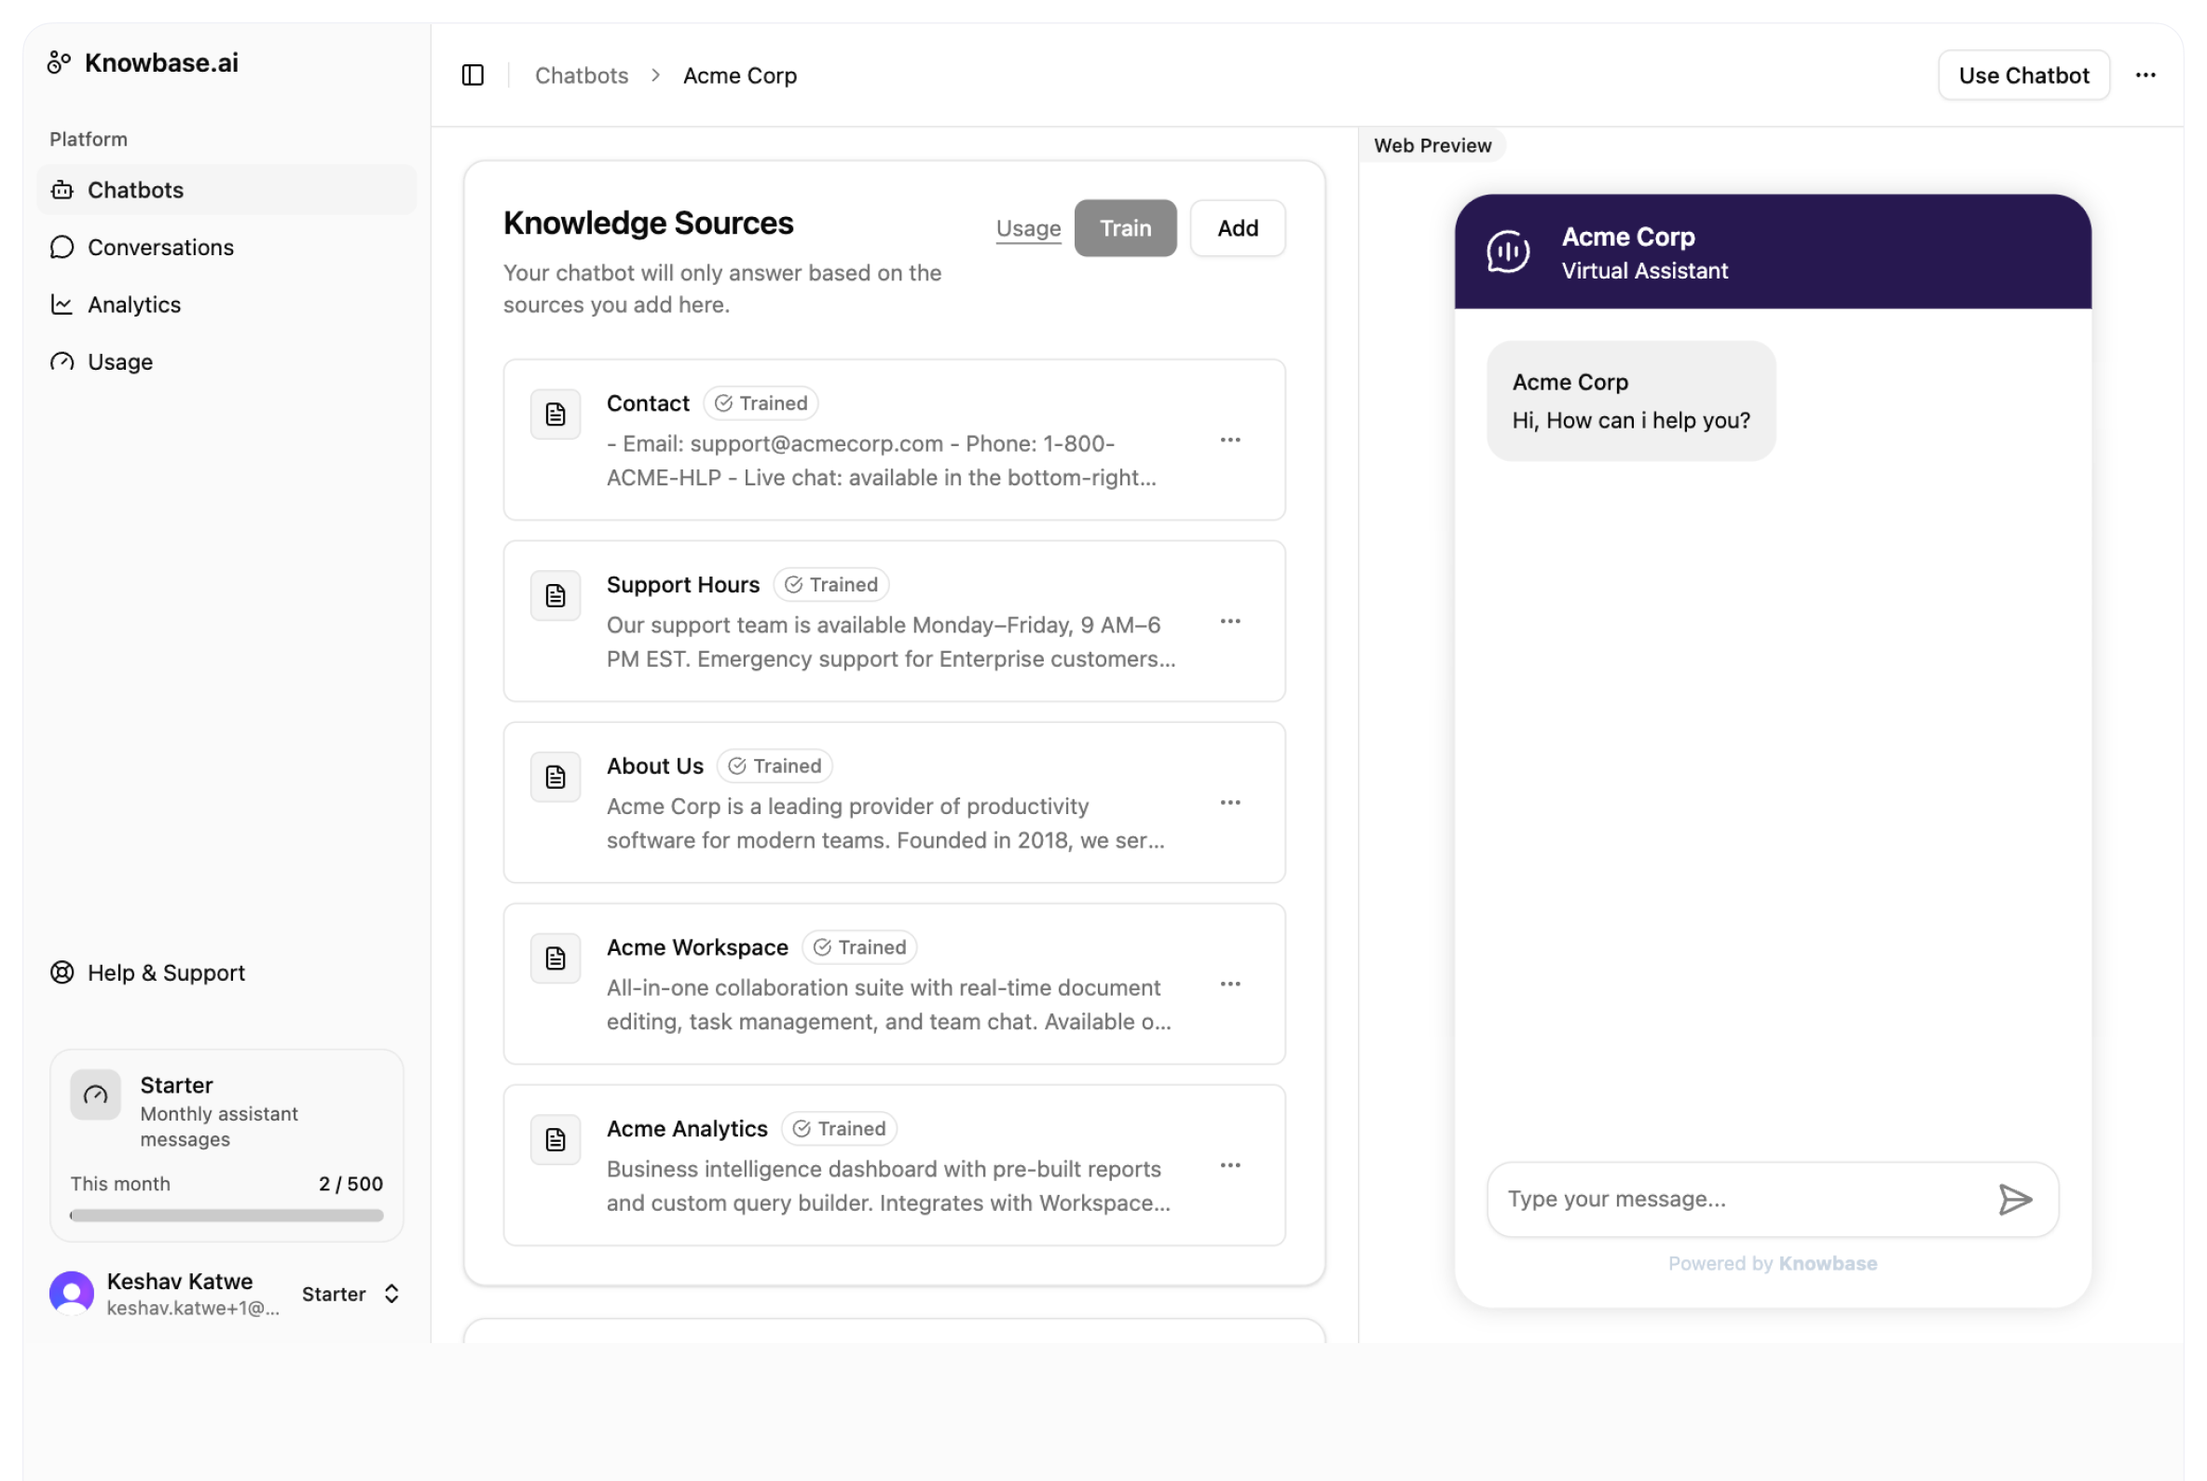
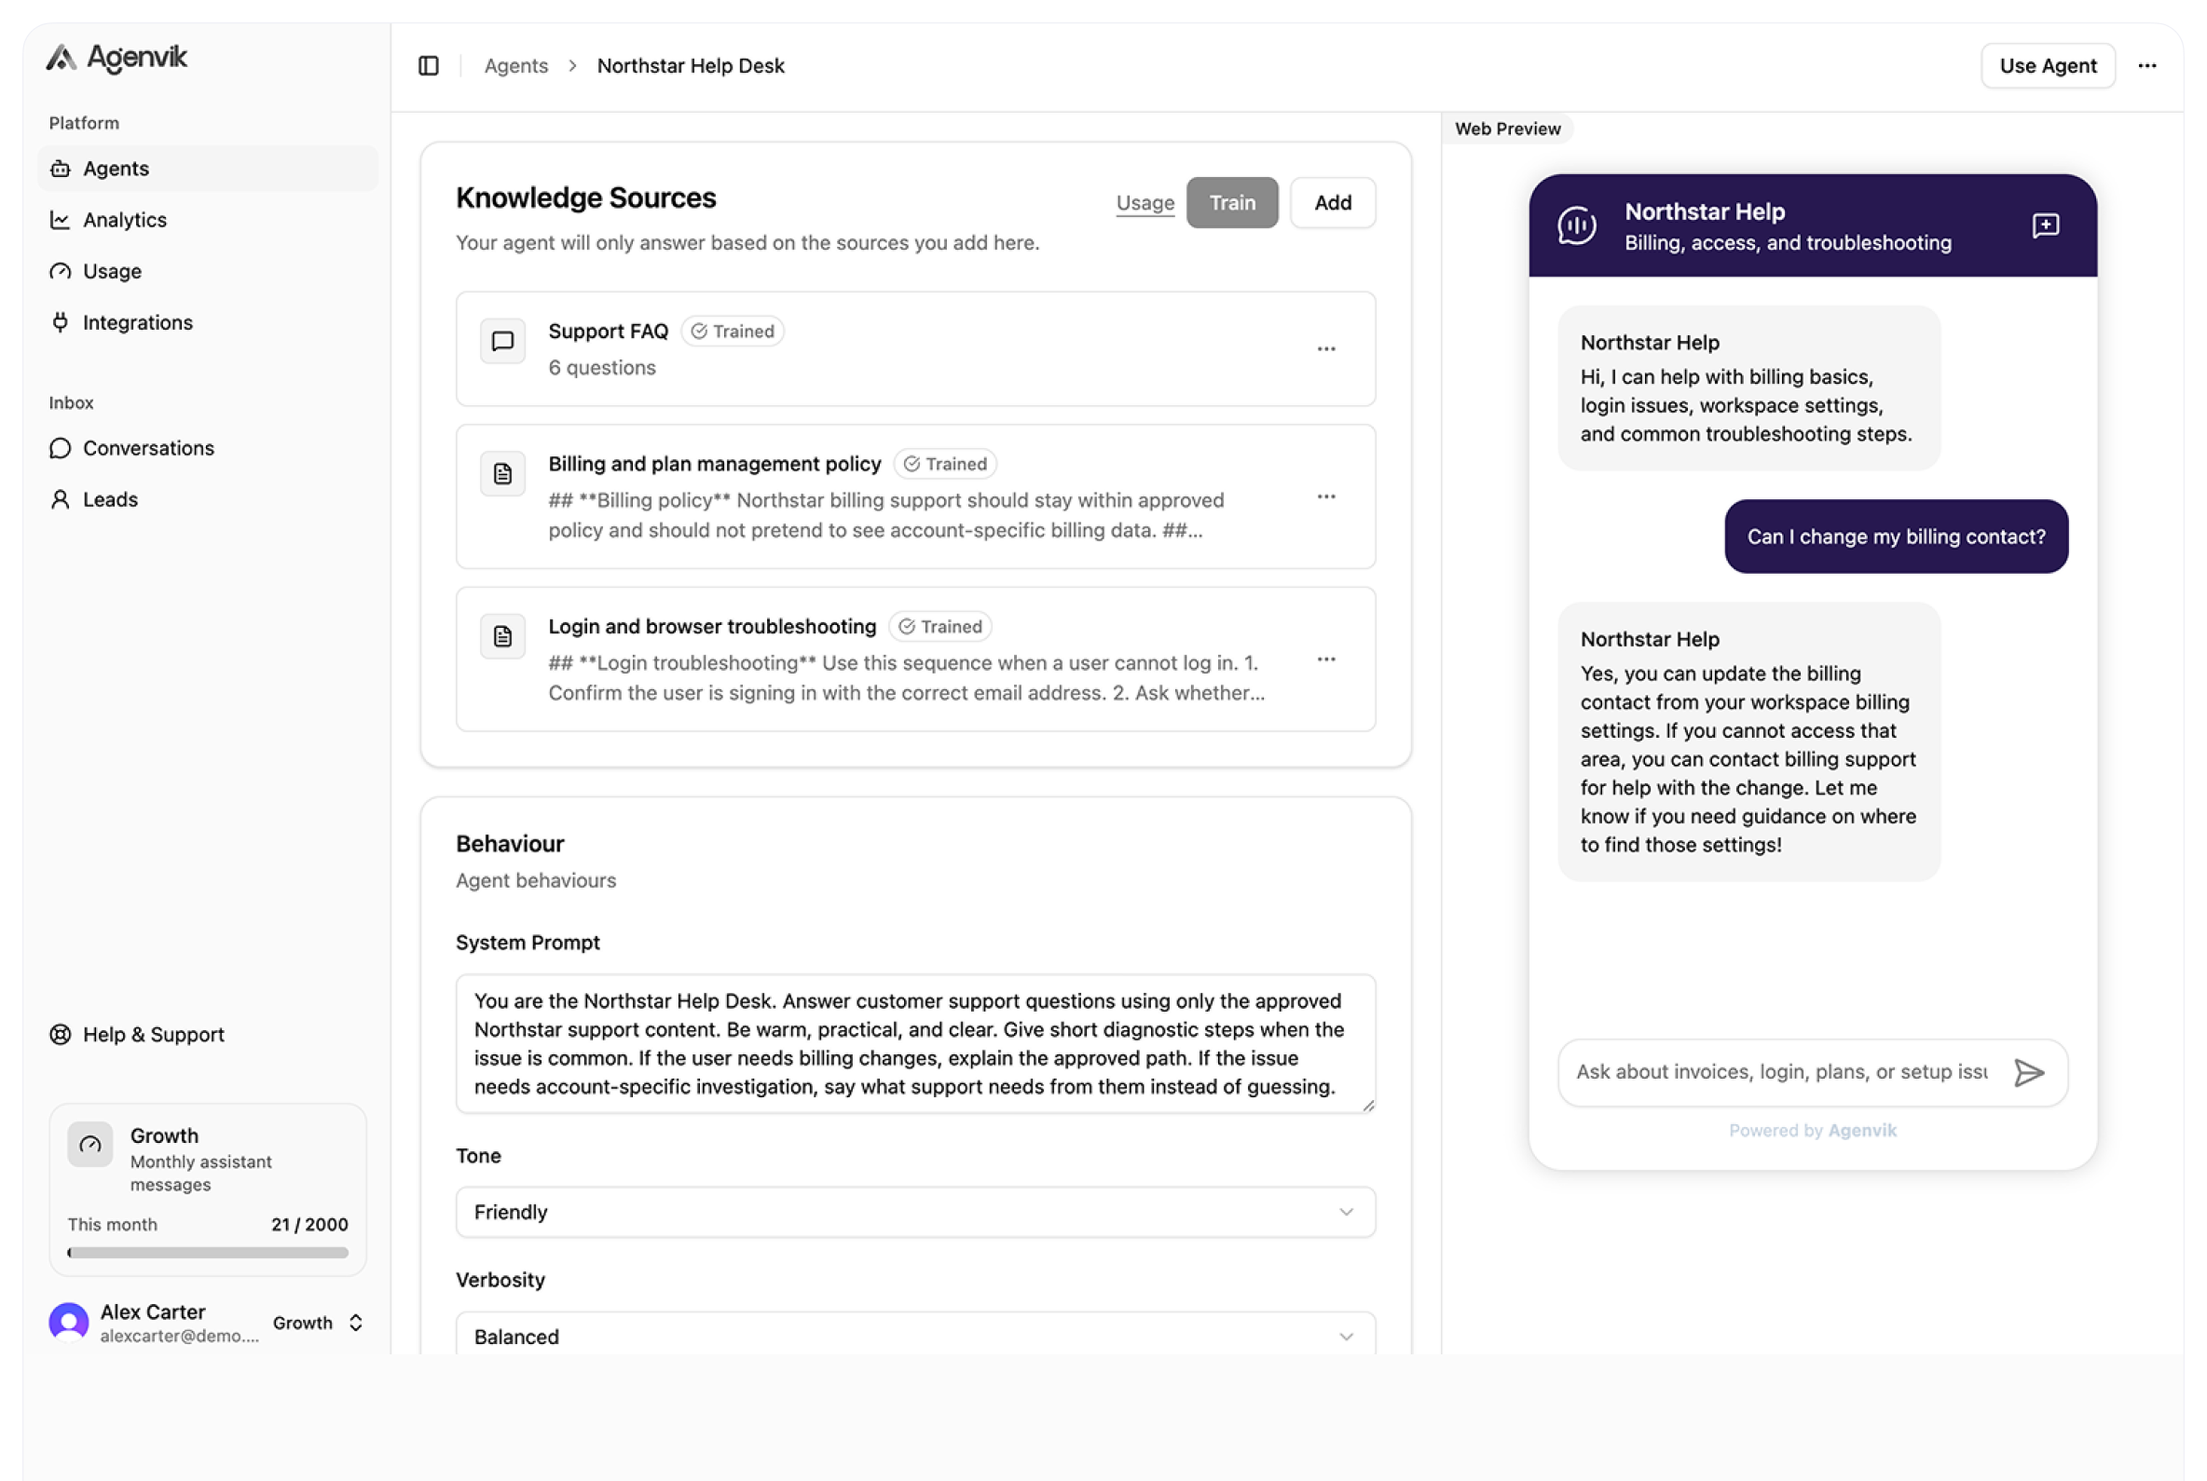
Added valid links

diff --git a/apps/landing/src/Sections/Footer.tsx b/apps/landing/src/Sections/Footer.tsx
@@ -1,20 +1,20 @@
-import { Mail, Phone, MapPin } from "lucide-react";
+import { usePostHog } from '@posthog/react';
+import { Mail } from 'lucide-react';
 import {
   FaFacebook,
-  FaTwitter,
-  FaLinkedin,
-  FaYoutube,
   FaInstagram,
-} from "react-icons/fa";
-import { Link } from "react-router-dom";
-import { usePostHog } from "@posthog/react";
+  FaLinkedin,
+  FaTwitter,
+  FaYoutube,
+} from 'react-icons/fa';
+import { Link } from 'react-router-dom';
 
 const socialLinks = [
-  { Icon: FaFacebook, label: "Facebook", href: "#" },
-  { Icon: FaTwitter, label: "Twitter / X", href: "#" },
-  { Icon: FaLinkedin, label: "LinkedIn", href: "#" },
-  { Icon: FaYoutube, label: "YouTube", href: "#" },
-  { Icon: FaInstagram, label: "Instagram", href: "#" },
+  { Icon: FaFacebook, label: 'Facebook', href: '#' },
+  { Icon: FaTwitter, label: 'Twitter / X', href: '#' },
+  { Icon: FaLinkedin, label: 'LinkedIn', href: '#' },
+  { Icon: FaYoutube, label: 'YouTube', href: '#' },
+  { Icon: FaInstagram, label: 'Instagram', href: '#' },
 ];
 
 const Footer = () => {
@@ -37,7 +37,11 @@ const Footer = () => {
               {/* Logo */}
               <div className="col-span-1">
                 <a href="/" aria-label="Agenvik home">
-                  <img src="/TextLogo.svg" alt="Agenvik" className="h-7 w-auto" />
+                  <img
+                    src="/TextLogo.svg"
+                    alt="Agenvik"
+                    className="h-7 w-auto"
+                  />
                 </a>
               </div>
 
@@ -52,9 +56,9 @@ const Footer = () => {
                       href="#"
                       className="hover:text-[#301B69]"
                       onClick={() =>
-                        posthog?.capture("footer_nav_link_clicked", {
-                          label: "Home",
-                          section: "quick_links",
+                        posthog?.capture('footer_nav_link_clicked', {
+                          label: 'Home',
+                          section: 'quick_links',
                         })
                       }
                     >
@@ -66,9 +70,9 @@ const Footer = () => {
                       href="#features"
                       className="hover:text-[#301B69]"
                       onClick={() =>
-                        posthog?.capture("footer_nav_link_clicked", {
-                          label: "Features",
-                          section: "quick_links",
+                        posthog?.capture('footer_nav_link_clicked', {
+                          label: 'Features',
+                          section: 'quick_links',
                         })
                       }
                     >
@@ -80,9 +84,9 @@ const Footer = () => {
                       href="#how-it-works"
                       className="hover:text-[#301B69]"
                       onClick={() =>
-                        posthog?.capture("footer_nav_link_clicked", {
-                          label: "How it Works",
-                          section: "quick_links",
+                        posthog?.capture('footer_nav_link_clicked', {
+                          label: 'How it Works',
+                          section: 'quick_links',
                         })
                       }
                     >
@@ -94,9 +98,9 @@ const Footer = () => {
                       href="#pricing"
                       className="hover:text-[#301B69]"
                       onClick={() =>
-                        posthog?.capture("footer_nav_link_clicked", {
-                          label: "Pricing",
-                          section: "quick_links",
+                        posthog?.capture('footer_nav_link_clicked', {
+                          label: 'Pricing',
+                          section: 'quick_links',
                         })
                       }
                     >
@@ -108,9 +112,9 @@ const Footer = () => {
                       href="#faq"
                       className="hover:text-[#301B69]"
                       onClick={() =>
-                        posthog?.capture("footer_nav_link_clicked", {
-                          label: "FAQ",
-                          section: "quick_links",
+                        posthog?.capture('footer_nav_link_clicked', {
+                          label: 'FAQ',
+                          section: 'quick_links',
                         })
                       }
                     >
@@ -128,72 +132,44 @@ const Footer = () => {
                 <ul className="space-y-2 text-sm text-[#301B69]/70 list-none">
                   <li>
                     <a
-                      href="#faq"
+                      href="https://docs.agenvik.com/"
                       className="hover:text-[#301B69]"
                       onClick={() =>
-                        posthog?.capture("footer_nav_link_clicked", {
-                          label: "Help Center",
-                          section: "support",
+                        posthog?.capture('footer_nav_link_clicked', {
+                          label: 'Help Center',
+                          section: 'support',
                         })
                       }
                     >
-                      Help Center
+                      User guide
                     </a>
                   </li>
                   <li>
                     <a
-                      href="/docs/getting-started"
+                      href="https://docs.agenvik.com/developer-guide/overview"
                       className="hover:text-[#301B69]"
                       onClick={() =>
-                        posthog?.capture("footer_nav_link_clicked", {
-                          label: "Getting Started",
-                          section: "support",
+                        posthog?.capture('footer_nav_link_clicked', {
+                          label: 'Getting Started',
+                          section: 'support',
                         })
                       }
                     >
-                      Getting Started
+                      Developer Guide
                     </a>
                   </li>
                   <li>
                     <a
-                      href="/contact"
+                      href="https://docs.agenvik.com/help-and-support/overview"
                       className="hover:text-[#301B69]"
                       onClick={() =>
-                        posthog?.capture("footer_nav_link_clicked", {
-                          label: "Contact Support",
-                          section: "support",
+                        posthog?.capture('footer_nav_link_clicked', {
+                          label: 'Contact Support',
+                          section: 'support',
                         })
                       }
                     >
-                      Contact Support
-                    </a>
-                  </li>
-                  <li>
-                    <a
-                      href="/community"
-                      className="hover:text-[#301B69]"
-                      onClick={() =>
-                        posthog?.capture("footer_nav_link_clicked", {
-                          label: "Community Forums",
-                          section: "support",
-                        })
-                      }
-                    >
-                      Community Forums
-                    </a>
-                  </li>
-                  <li>
-                    <a
-                      href="/docs"
-                      className="hover:text-[#301B69]"
-                      onClick={() =>
-                        posthog?.capture("footer_nav_link_clicked", {
-                          label: "Documentation",
-                          section: "support",
-                        })
-                      }
-                    >
-                      Documentation
+                      Help & Support
                     </a>
                   </li>
                 </ul>
@@ -208,43 +184,43 @@ const Footer = () => {
                   <li className="flex items-center gap-2">
                     <Mail size={14} aria-hidden="true" />
                     <a
-                      href="mailto:contact@agenvik.com"
+                      href="mailto:hello@agenvik.com"
                       className="hover:text-[#301B69]"
                       onClick={() =>
-                        posthog?.capture("footer_contact_clicked", {
-                          type: "email",
+                        posthog?.capture('footer_contact_clicked', {
+                          type: 'email',
                         })
                       }
                     >
-                      contact@agenvik.com
+                      hello@agenvik.com
                     </a>
                   </li>
-                  <li className="flex items-center gap-2">
-                    <Phone size={14} aria-hidden="true" />
-                    <a
-                      href="tel:+14146875892"
-                      className="hover:text-[#301B69]"
-                      onClick={() =>
-                        posthog?.capture("footer_contact_clicked", {
-                          type: "phone",
-                        })
-                      }
-                    >
-                      (414) 687-5892
-                    </a>
-                  </li>
-                  <li className="flex items-start gap-2">
-                    <MapPin
-                      size={14}
-                      className="mt-1 flex-shrink-0"
-                      aria-hidden="true"
-                    />
-                    <span>
-                      794 McAllister St
-                      <br />
-                      San Francisco, CA 94102
-                    </span>
-                  </li>
+                  {/*<li className="flex items-center gap-2">*/}
+                  {/*  <Phone size={14} aria-hidden="true" />*/}
+                  {/*  <a*/}
+                  {/*    href="tel:+14146875892"*/}
+                  {/*    className="hover:text-[#301B69]"*/}
+                  {/*    onClick={() =>*/}
+                  {/*      posthog?.capture('footer_contact_clicked', {*/}
+                  {/*        type: 'phone',*/}
+                  {/*      })*/}
+                  {/*    }*/}
+                  {/*  >*/}
+                  {/*    (414) 687-5892*/}
+                  {/*  </a>*/}
+                  {/*</li>*/}
+                  {/*<li className="flex items-start gap-2">*/}
+                  {/*  <MapPin*/}
+                  {/*    size={14}*/}
+                  {/*    className="mt-1 flex-shrink-0"*/}
+                  {/*    aria-hidden="true"*/}
+                  {/*  />*/}
+                  {/*  <span>*/}
+                  {/*    Kuberpuram*/}
+                  {/*    <br />*/}
+                  {/*    San Francisco, CA 94102*/}
+                  {/*  </span>*/}
+                  {/*</li>*/}
                 </ul>
               </address>
 
@@ -261,7 +237,7 @@ const Footer = () => {
                         aria-label={`Agenvik on ${label}`}
                         className="w-9 h-9 flex items-center justify-center rounded-full bg-[#301B69] text-white shadow-md hover:opacity-90 transition"
                         onClick={() =>
-                          posthog?.capture("footer_social_clicked", {
+                          posthog?.capture('footer_social_clicked', {
                             platform: label,
                             href,
                           })
@@ -278,11 +254,11 @@ const Footer = () => {
             <div className="mt-12 border-t border-[#301B69]/10" />
 
             <p className="text-center text-sm text-[#301B69]/70 mt-6">
-              © 2026 Agenvik. All rights reserved. ·{" "}
+              © 2026 Agenvik. All rights reserved. ·{' '}
               <Link to="/privacy-policy" className="hover:text-[#301B69]">
                 Privacy Policy
               </Link>
-              {" · "}
+              {' · '}
               <Link to="/terms" className="hover:text-[#301B69]">
                 Terms & Conditions
               </Link>

diff --git a/apps/landing/src/Sections/HeroSection.tsx b/apps/landing/src/Sections/HeroSection.tsx
@@ -1,5 +1,5 @@
-import GetStartedButton from "../components/GetStartedButton";
-import { usePostHog } from "@posthog/react";
+import { usePostHog } from '@posthog/react';
+import GetStartedButton from '../components/GetStartedButton';
 
 const HeroSection = () => {
   const posthog = usePostHog();
@@ -29,9 +29,9 @@ const HeroSection = () => {
               href="#features"
               className="hover:opacity-80"
               onClick={() =>
-                posthog?.capture("nav_link_clicked", {
-                  label: "Features",
-                  href: "#features",
+                posthog?.capture('nav_link_clicked', {
+                  label: 'Features',
+                  href: '#features',
                 })
               }
             >
@@ -41,9 +41,9 @@ const HeroSection = () => {
               href="#how-it-works"
               className="hover:opacity-80"
               onClick={() =>
-                posthog?.capture("nav_link_clicked", {
-                  label: "How it Works",
-                  href: "#how-it-works",
+                posthog?.capture('nav_link_clicked', {
+                  label: 'How it Works',
+                  href: '#how-it-works',
                 })
               }
             >
@@ -53,9 +53,9 @@ const HeroSection = () => {
               href="#pricing"
               className="hover:opacity-80"
               onClick={() =>
-                posthog?.capture("nav_link_clicked", {
-                  label: "Pricing",
-                  href: "#pricing",
+                posthog?.capture('nav_link_clicked', {
+                  label: 'Pricing',
+                  href: '#pricing',
                 })
               }
             >
@@ -65,9 +65,9 @@ const HeroSection = () => {
               href="#faq"
               className="hover:opacity-80"
               onClick={() =>
-                posthog?.capture("nav_link_clicked", {
-                  label: "FAQ",
-                  href: "#faq",
+                posthog?.capture('nav_link_clicked', {
+                  label: 'FAQ',
+                  href: '#faq',
                 })
               }
             >
@@ -101,9 +101,9 @@ const HeroSection = () => {
             Get Started →
           </GetStartedButton>
           <a
-            href="/contact"
+            href="mailto:hello@agenvik.com"
             className="px-6 py-3 text-[#301B69] bg-white rounded-xl"
-            onClick={() => posthog?.capture("contact_us_clicked")}
+            onClick={() => posthog?.capture('contact_us_clicked')}
           >
             Contact Us
           </a>
